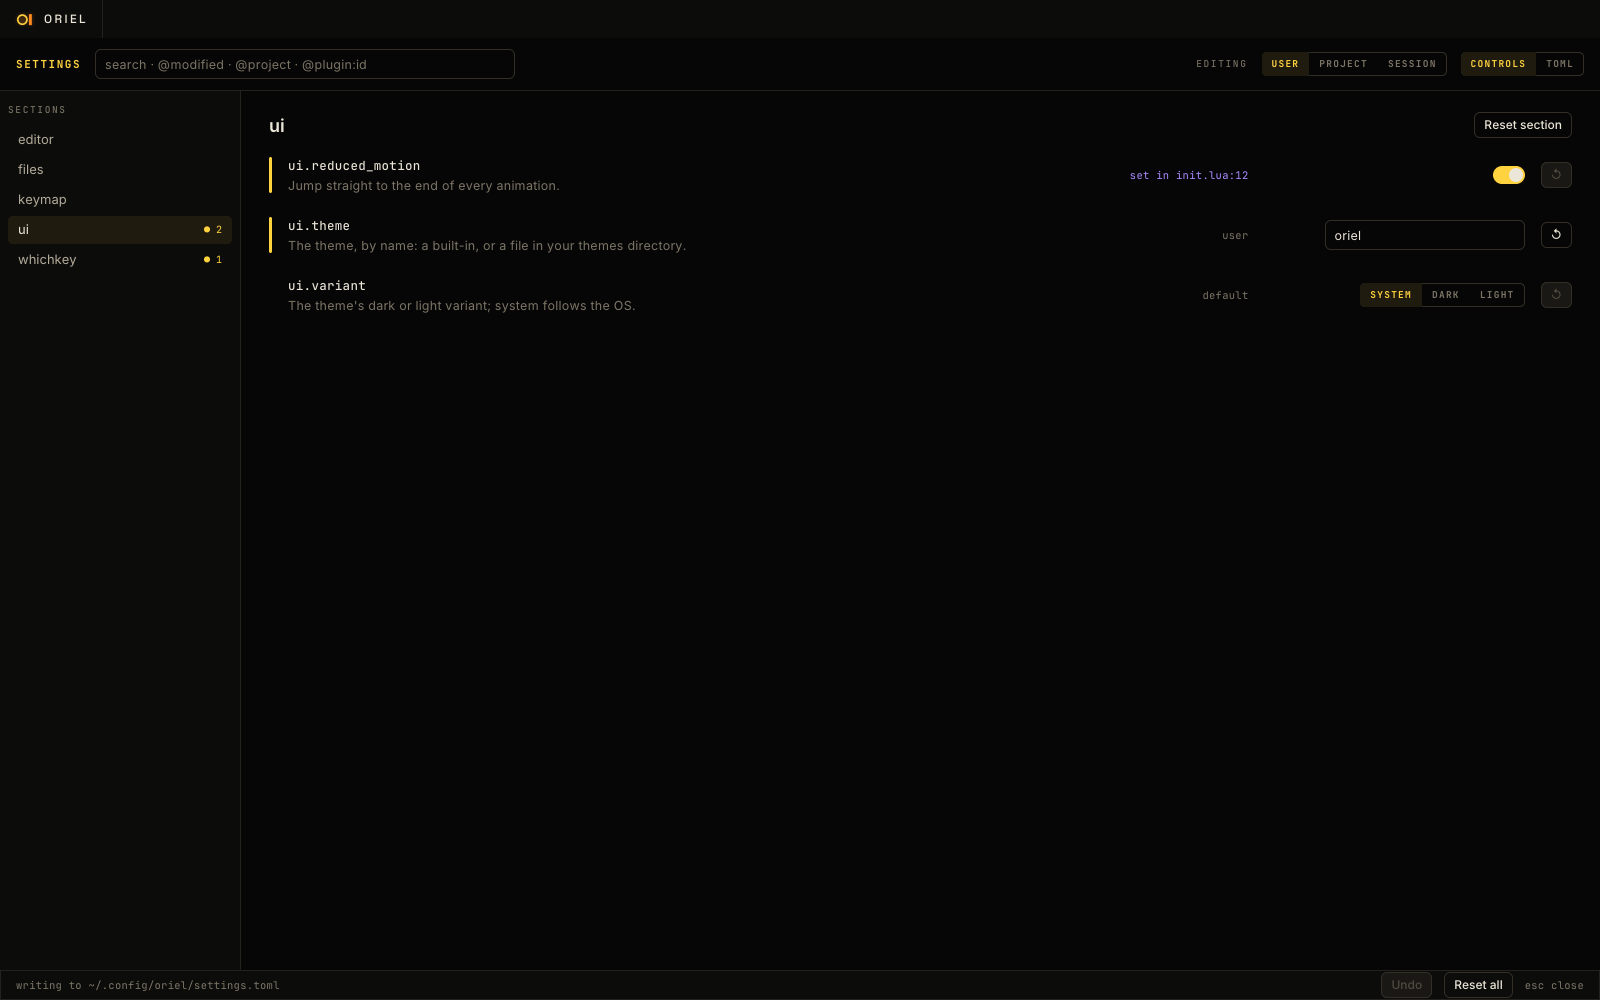
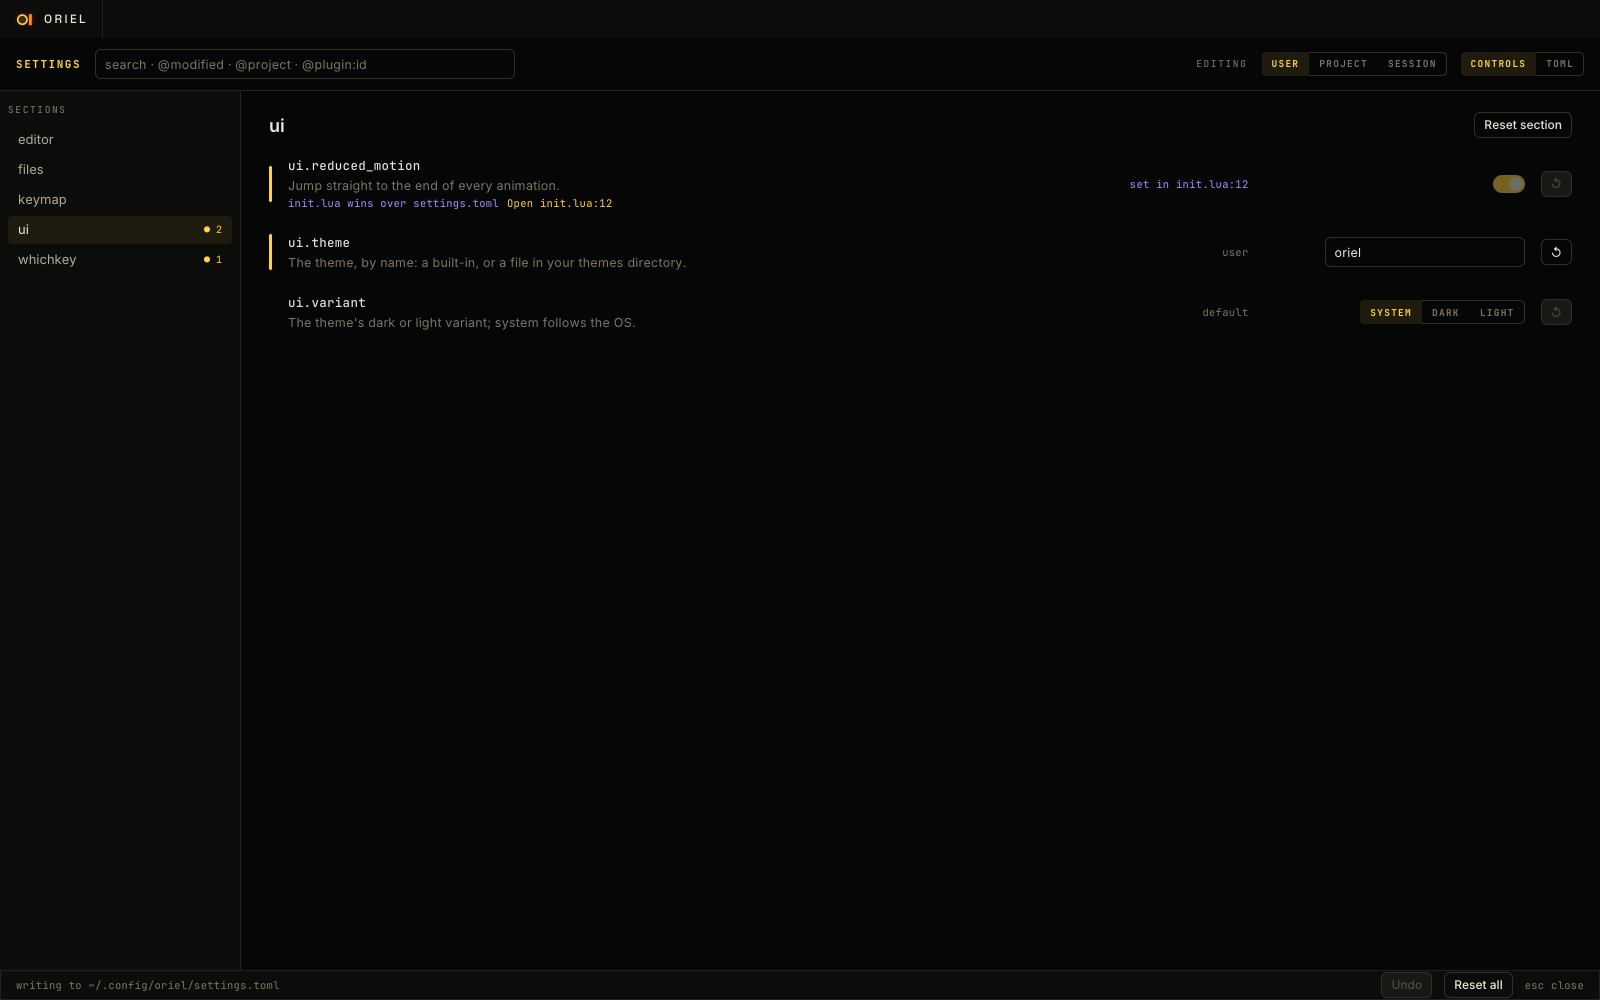
fix(app): settings page greys out Lua-set rows and says init.lua wins
At the user scope a Lua-set option is read-only, faded, with a link to its line. The project and session scopes
come after init.lua, so they can set it.

diff --git a/app/settings.go b/app/settings.go
@@ -19,6 +19,7 @@ import (
 	"github.com/liamg/oriel/core"
 	"github.com/liamg/oriel/ext"
 	"github.com/liamg/oriel/registry"
+	"github.com/liamg/oriel/script"
 	"github.com/liamg/oriel/render"
 	"github.com/liamg/oriel/render/typeset"
 	"github.com/liamg/oriel/theme"
@@ -377,10 +378,21 @@ func (s *settingsExt) sessionAt() registry.At {
 	return registry.At{Session: s.h.Here().Session}
 }
 
-// readOnly says why the page can't change name: a value set in Lua, which wins over the files.
-func (s *settingsExt) readOnly(name string, at registry.At) error {
-	if _, l, err := s.h.Options().Get(name, at); err == nil && l == registry.LayerLua {
-		return fmt.Errorf("%s is set in %s; change it there", name, s.h.Options().Source(name, at))
+// shadow is the layer above scope's that decides name here, and where it was set: a change at scope wouldn't show.
+func (s *settingsExt) shadow(name string, scope int) (registry.Layer, string, bool) {
+	at := s.atFor(scope)
+	_, l, err := s.h.Options().Get(name, at)
+	if err != nil || l <= s.layerFor(scope) {
+		return 0, "", false
+	}
+	return l, s.h.Options().Source(name, at), true
+}
+
+// readOnly says why the page can't change name at scope: init.lua sets it, and wins over the user file. The
+// project file and the session come after init.lua, so they can.
+func (s *settingsExt) readOnly(name string, scope int) error {
+	if l, src, ok := s.shadow(name, scope); ok && l == registry.LayerLua {
+		return fmt.Errorf("%s is set in %s, and init.lua wins over settings.toml; change it there, or set it for this project or session", name, src)
 	}
 	return nil
 }
@@ -391,7 +403,7 @@ func (s *settingsExt) set(name string, v any, scope int) error {
 	if !ok {
 		return fmt.Errorf("no option %q", name)
 	}
-	if err := s.readOnly(sp.Name, s.atFor(scope)); err != nil {
+	if err := s.readOnly(sp.Name, scope); err != nil {
 		return err
 	}
 	if f, ok := v.(float64); ok && sp.Type == registry.Int && f == float64(int(f)) {
@@ -750,7 +762,8 @@ func (s *settingsExt) row(c *ui.Ctx, th *theme.Resolved, sp registry.OptionSpec,
 	_, setHere := o.Lookup(sp.Name, s.layerFor(s.scope), at)
 	lua := l == registry.LayerLua
 	canScope := sp.Scopes&[...]registry.Scope{registry.ScopeUser, registry.ScopeProject, registry.ScopeSession}[s.scope] != 0
-	disabled := lua || !canScope
+	disabled := s.readOnly(sp.Name, s.scope) != nil || !canScope
+	shadowL, shadowSrc, shadowed := s.shadow(sp.Name, s.scope)
 	c.Row(sp.Name, ui.Style{W: ui.Flex(1), Pad: ui.PadXY(0, 10), Gap: 16, Cross: ui.Center, Help: "shell/settings#rows"}, func(c *ui.Ctx) {
 		mark := render.Color{}
 		if l != registry.LayerDefault {
@@ -771,16 +784,49 @@ func (s *settingsExt) row(c *ui.Ctx, th *theme.Resolved, sp registry.OptionSpec,
 			} else if sp.Help != "" {
 				widget.Wrap(c, "h", sp.Help, 560, ui.TextStyle{Font: typeset.FontSpec{Family: typeset.UI, Size: 12.5}, Color: th.C(theme.FgFaint)})
 			}
+			if shadowed {
+				s.shadowNote(c, th, shadowL, shadowSrc)
+			}
 		})
 		srcTok := tSetSource
 		if lua {
 			srcTok = tSetLua
 		}
 		c.Text("src", s.sourceLabel(sp.Name, l, at), monoAt(th, 10.5, srcTok))
-		c.Box("ctl", ui.Style{W: ui.Px(260), Main: ui.End}, func(c *ui.Ctx) { s.control(c, th, sp, v, disabled) })
+		fade := float32(0)
+		if disabled {
+			fade = .55
+		}
+		c.Box("ctl", ui.Style{W: ui.Px(260), Main: ui.End, Fade: fade}, func(c *ui.Ctx) { s.control(c, th, sp, v, disabled) })
 		if widget.Button(c, "reset", "↺", widget.ButtonOpts{Ghost: true, Disabled: !setHere || disabled, Help: "shell/settings#reset"}) {
 			s.fail(s.reset(sp.Name, s.scope))
 		}
+	})
+}
+
+// shadowNote says what decides a row's value over the layer the page edits: init.lua, with a link to the line, or
+// a later layer.
+func (s *settingsExt) shadowNote(c *ui.Ctx, th *theme.Resolved, l registry.Layer, src string) {
+	c.Row("shadow", ui.Style{Gap: 8, Cross: ui.Center}, func(c *ui.Ctx) {
+		if l != registry.LayerLua {
+			c.Text("t", "overridden here by "+strings.TrimSuffix(s.sourceLabel("", l, registry.At{})+" · "+src, " · "), monoAt(th, 10.5, theme.FgFaint))
+			return
+		}
+		c.Text("t", "init.lua wins over settings.toml", monoAt(th, 10.5, tSetLua))
+		file, line := script.SplitLoc(src)
+		if line == 0 {
+			return
+		}
+		if !filepath.IsAbs(file) {
+			file = filepath.Join(s.sh.cfg.ConfigDir, file)
+		}
+		id := c.Next("open")
+		if c.Interaction(id).Clicked {
+			s.fail(s.h.Run(context.Background(), "editor.open", registry.Args{"path": file, "line": line}))
+		}
+		c.Row("open", ui.Style{Interactive: true, Cursor: render.CursorPointer, Role: ui.RoleButton, Label: "Open " + src, Help: "shell/settings#rows"}, func(c *ui.Ctx) {
+			c.Text("t", "Open "+src, monoAt(th, 10.5, theme.Accent))
+		})
 	})
 }
 

diff --git a/app/settings_test.go b/app/settings_test.go
@@ -180,8 +180,35 @@ func TestSettingsLuaIsReadOnly(t *testing.T) {
 	if n := s.access("whichkey.enabled"); !n.Disabled {
 		t.Error("the toggle isn't disabled")
 	}
-	if !strings.Contains(s.frameText(), "init.lua:12") {
-		t.Errorf("the row doesn't say where it's set:\n%s", s.frameText())
+	text := s.frameText()
+	for _, want := range []string{"init.lua:12", "init.lua wins over settings.toml", "Open init.lua:12"} {
+		if !strings.Contains(text, want) {
+			t.Errorf("the row lacks %q:\n%s", want, text)
+		}
+	}
+	if s.access("Open init.lua:12") == nil {
+		t.Error("no link to the line")
+	}
+}
+
+// settings.md, "Precedence": the project file and the session come after init.lua, so at those scopes a Lua-set
+// option is editable, and what's set there wins.
+func TestSettingsLuaIsOverriddenAboveIt(t *testing.T) {
+	s := newScene(t, "", t.TempDir(), mockupSize)
+	s.settings().loadAll()
+	s.reg.Options().SetFrom("editor.expand_tab", registry.LayerLua, registry.At{}, false, "init.lua:12")
+	if err := s.reg.Run(context.Background(), "settings.set", registry.Args{"name": "editor.expand_tab", "value": true, "scope": "session"}); err != nil {
+		t.Fatalf("setting it for the session: %v", err)
+	}
+	if v, l, _ := s.reg.Options().Get("editor.expand_tab", s.host.Here()); v != true || l != registry.LayerSession {
+		t.Errorf("editor.expand_tab = %v from %s", v, l)
+	}
+	s.run("settings.open", registry.Args{"section": "editor"})
+	s.settings().scope = 2
+	s.frame()
+	s.frame()
+	if n := s.access("editor.expand_tab"); n.Disabled {
+		t.Error("the toggle is disabled at session scope")
 	}
 }
 

diff --git a/_design/settings.md b/_design/settings.md
@@ -147,14 +147,16 @@ Every option Oriel registers, so there is one place to look. A test checks it ag
 - The page writes through `toml.Document`: a change replaces the value's bytes, a new key goes after its table's
   last key, a reset deletes the line. Only the user and project files are written; the session scope never is.
   It edits at the key the file already uses (an alias, a dotted key). A file that doesn't parse is never written.
-- A value set in Lua wins over both files, so the page shows it read-only with its source; `settings.set` refuses it.
+- A value set in Lua wins over the user file, so at the user scope the page shows it greyed out, read-only, with "init.lua
+  wins over settings.toml" and a link to the line; `settings.set` refuses it there. The project file and the session
+  come after init.lua, so at those scopes it's editable and what's set there wins. A row a later layer decides
+  (project, a buffer's `:set`) says "overridden here by …".
 - **Project trust**: a project file applies only once trusted (`settings.trust`, offered by a notice), recorded by
   its SHA-256 in `~/.config/oriel/trusted.toml`, so a change needs trusting again (security.md, direnv-style). An
   edit from the page re-trusts it.
 - Controls: a toggle, choices (four or fewer inline, else a menu), and a field for numbers, durations and
   strings, checked on Enter. "TOML" shows each row's line and its Lua. Undo is per change.
-- Not yet: colour, key, list and map types; `Restart`, `Resettable` and `Secret`; a jump to the Lua line (Lua comes
-  with the scripting ticket); undo for reset section and reset all as one step.
+- Not yet: colour, key, list and map types; `Restart`, `Resettable` and `Secret`; undo for reset section and reset all as one step.
 
 ## As built (ED-9)
 
